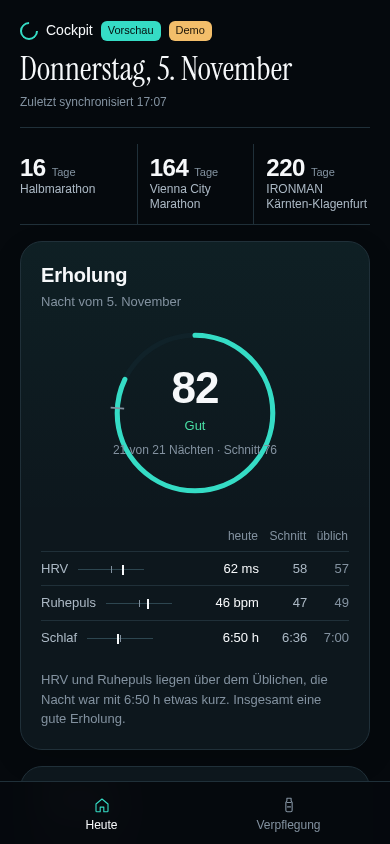
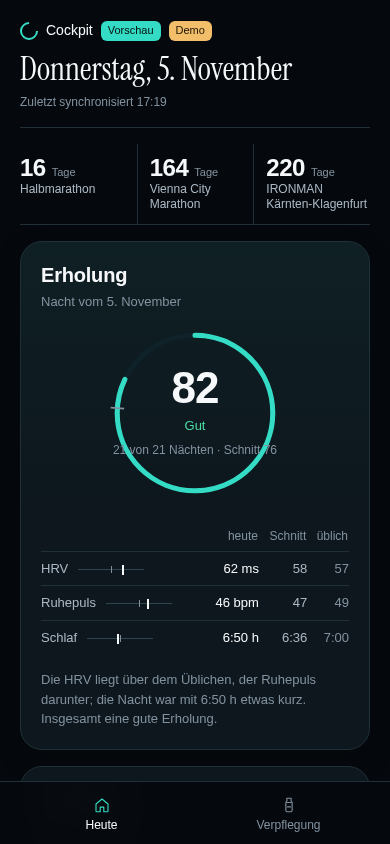
Design: Demo-Erklaerung und Messwert korrigieren
Der Demo-Satz sagte, HRV und Ruhepuls laegen ueber dem Ueblichen; der Ruhepuls liegt mit 46 gegen 49 bpm darunter. Die Tabelle im Vergleichsbericht nannte fuer die Tab-Leiste ohne Safe Area 818/26 px statt der gemessenen 834/10 px; beide Stellen sind korrigiert und die Demo-Bilder neu aufgenommen.

Changed region(s): [[0.0923, 0.8009, 0.8308, 0.8626], [0.4, 0.0924, 0.4308, 0.1232]]

diff --git a/web/src/demo.ts b/web/src/demo.ts
@@ -69,7 +69,7 @@ const DEMO_RECOVERY: Recovery = {
   missing: [],
   reference: { nights: 21, minimum: 21, target: 21, average: 76 },
   explanation:
-    "HRV und Ruhepuls liegen über dem Üblichen, die Nacht war mit 6:50 h etwas kurz. Insgesamt eine gute Erholung.",
+    "Die HRV liegt über dem Üblichen, der Ruhepuls darunter; die Nacht war mit 6:50 h etwas kurz. Insgesamt eine gute Erholung.",
   vendor_prompt: false,
 };
 

diff --git a/docs/design/demo-vergleich.md b/docs/design/demo-vergleich.md
@@ -171,7 +171,7 @@ Blur bleiben. Gemessen bei 390 × 844:
 
 | Zustand | `padding-bottom` | Label-Unterkante | Abstand zur Unterkante |
 |---|---|---|---|
-| ohne Safe Area | 4 px | 818 px | 26 px |
+| ohne Safe Area | 4 px | 834 px | 10 px |
 | 34 px Safe Area (emuliert) | 20 px | 818 px | 26 px |
 
 Mit 34 px Inset entspricht das der Vorgabe (rechnerisch vorher 42 px, jetzt
